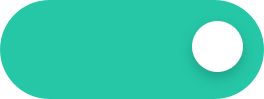
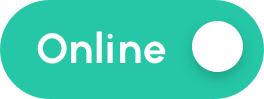
ui before api integration

Changed region(s): [[0.1212, 0.303, 0.6364, 0.6667]]

diff --git a/src/Screens/RoyoOrder/RoyoProducts/RoyoProducts.js b/src/Screens/RoyoOrder/RoyoProducts/RoyoProducts.js
@@ -1,5 +1,5 @@
 import React, {useState, useCallback} from 'react';
-import {View, Text, StyleSheet, ScrollView, Image} from 'react-native';
+import {View, Text, StyleSheet, Image} from 'react-native';
 import {useFocusEffect} from '@react-navigation/native';
 import {SwipeListView} from 'react-native-swipe-list-view';
 import {customMarginBottom} from '../../../utils/constants/constants';
@@ -9,16 +9,16 @@ import fontFamily from '../../../styles/fontFamily';
 import {
   moderateScale,
   moderateScaleVertical,
-  textScale,
+  width,
 } from '../../../styles/responsiveSize';
 import MultiScreen from '../../../Components/MultiScreen';
 import imagePath from '../../../constants/imagePath';
 import {useSelector} from 'react-redux';
 import {TouchableOpacity} from 'react-native';
 import ButtonWithLoader from '../../../Components/ButtonWithLoader';
-import {Platform} from 'react-native';
 import navigationStrings from '../../../navigation/navigationStrings';
 import Header from '../../../Components/Header';
+import {FlatList} from 'react-native';
 
 const RoyoProducts = (props) => {
   const {navigation} = props;
@@ -33,7 +33,7 @@ const RoyoProducts = (props) => {
     });
 
   //   const {product} = useSelector((state) => state.product);
-  const product = [1, 2, 3, 4];
+  const product = [1, 2, 3, 4, 5, 6, 7, 8, 9];
   const renderItem = (data, rowMap) => {
     const {item, index} = data;
     return (
@@ -122,6 +122,7 @@ const RoyoProducts = (props) => {
       statusBarColor="white"
       barStyle="dark-content">
       <Header
+        headerStyle={{marginVertical: moderateScaleVertical(16)}}
         centerTitle={`${headerText} | Foodies hub  `}
         noLeftIcon
         imageAlongwithTitle={imagePath.dropdownTriangle}
@@ -129,6 +130,7 @@ const RoyoProducts = (props) => {
       />
       <View style={styles.container}>
         <MultiScreen
+          tabTextStyle={{marginTop: moderateScaleVertical(0)}}
           screenName={['Products', 'Categories', '', '', '']}
           selectedScreen={(index) => selectedOrder(index)}
           selectedScreenIndex={activeIndex}
@@ -165,14 +167,7 @@ const RoyoProducts = (props) => {
               onPress={() =>
                 navigation.navigate(navigationStrings.ROYO_ADD_PRODUCT)
               }
-              btnStyle={{
-                position: 'absolute',
-                padding: moderateScale(10),
-                bottom: moderateScaleVertical(20),
-                right: moderateScale(10),
-                borderRadius: moderateScale(100),
-                paddingHorizontal: moderateScale(15),
-              }}
+              btnStyle={styles.productBtn}
               btnText="+  products"
             />
           </View>
@@ -180,51 +175,54 @@ const RoyoProducts = (props) => {
         {activeIndex == 1 ? (
           <View
             style={{
-              flexDirection: 'row',
-              flexWrap: 'wrap',
-              justifyContent: 'space-between',
               flex: 1,
             }}>
-            {[1, 2, 3, 4, 5, 6, 7].map((item, index) => {
-              return (
+            <FlatList
+              data={[1, 2, 3, 4, 5, 6, 7]}
+              keyExtractor={(item, index) => index}
+              bounces={false}
+              showsVerticalScrollIndicator={false}
+              numColumns={width > 600 ? 5 : 3}
+              renderItem={({item, index}) => (
                 <View
                   key={index}
-                  style={{marginBottom: moderateScaleVertical(16)}}>
-                  <TouchableOpacity
-                    style={{
-                      alignSelf: 'center',
-                      backgroundColor: '#D8D8D8',
-                      paddingHorizontal: 10,
-                      paddingVertical: moderateScaleVertical(16),
-                      marginBottom: moderateScaleVertical(8),
-                      borderRadius: moderateScaleVertical(6),
-                    }}>
+                  style={{
+                    marginBottom: moderateScaleVertical(16),
+                    marginLeft:
+                      width > 600
+                        ? index % 5
+                          ? moderateScale(10)
+                          : 0
+                        : index % 3
+                        ? moderateScale(10)
+                        : 0,
+                  }}>
+                  <TouchableOpacity style={styles.categoryItem}>
                     <Image
                       style={{
-                        width: moderateScale(75),
-                        height: moderateScaleVertical(65),
+                        resizeMode: 'center',
+                        width:
+                          width > 600
+                            ? (width - moderateScale(173)) / 5
+                            : (width - moderateScale(112)) / 3,
+                        height:
+                          width > 600
+                            ? (width - moderateScale(203)) / 5
+                            : (width - moderateScale(152)) / 3,
                       }}
-                      source={{
-                        uri: 'https://cdn.britannica.com/q:60/08/177308-050-94D9D6BE/Food-Pizza-Basil-Tomato.jpg',
-                      }}
+                      source={imagePath.testingImageRoyo}
                     />
                   </TouchableOpacity>
                   <Text style={{textAlign: 'center'}}>pizza</Text>
                 </View>
-              );
-            })}
+              )}
+            />
+
             <ButtonWithLoader
               onPress={() =>
                 navigation.navigate(navigationStrings.ROYO_ADD_PRODUCT)
               }
-              btnStyle={{
-                position: 'absolute',
-                padding: moderateScale(10),
-                bottom: moderateScaleVertical(20),
-                right: moderateScale(10),
-                borderRadius: moderateScale(100),
-                paddingHorizontal: moderateScale(15),
-              }}
+              btnStyle={styles.categoryBtn}
               btnText="+  category"
             />
           </View>
@@ -272,5 +270,29 @@ const styles = StyleSheet.create({
     borderRadius: moderateScaleVertical(8),
     justifyContent: 'center',
     marginLeft: moderateScale(8),
+  },
+  categoryItem: {
+    alignSelf: 'center',
+    backgroundColor: '#F8F8F8',
+    paddingHorizontal: moderateScale(10),
+    paddingVertical: moderateScaleVertical(16),
+    marginBottom: moderateScaleVertical(8),
+    borderRadius: moderateScaleVertical(6),
+  },
+  productBtn: {
+    position: 'absolute',
+    padding: moderateScale(10),
+    bottom: moderateScaleVertical(20),
+    right: moderateScale(10),
+    borderRadius: moderateScale(100),
+    paddingHorizontal: moderateScale(15),
+  },
+  categoryBtn: {
+    position: 'absolute',
+    padding: moderateScale(10),
+    bottom: moderateScaleVertical(20),
+    right: moderateScale(10),
+    borderRadius: moderateScale(100),
+    paddingHorizontal: moderateScale(15),
   },
 });

diff --git a/src/Screens/RoyoOrder/RoyoHome/RoyoHome.js b/src/Screens/RoyoOrder/RoyoHome/RoyoHome.js
@@ -159,42 +159,17 @@ const RoyoHome = (props) => {
       statusBarColor={colors.white}
       barStyle="dark-content">
       <Header
-        // headerStyle={{marginTop:moderateScaleVertical(8)}}
+        headerStyle={{marginVertical: moderateScaleVertical(16)}}
         onPressLeft={() => {}}
         leftIcon={imagePath.logoRoyo}
-        customRight={() => (
-          <TouchableOpacity onPress={toggleStatus}>
-            <Image
-              source={status ? imagePath.onlineRoyo : imagePath.offlineRoyo}
-            />
-            <Text
-              style={{
-                ...commonStyle.boldFont14,
-                color: colors.white,
-                position: 'absolute',
-                left: status ? moderateScale(11) : null,
-                right: status ? null : moderateScale(10),
-                top: moderateScaleVertical(6.5),
-              }}>
-              {status ? 'online' : 'offline'}
-            </Text>
-          </TouchableOpacity>
-        )}
+        rightIcon={status?imagePath.onlineRoyo:imagePath.offlineRoyo}
+        onPressRight={toggleStatus}
       />
       <ScrollView
         contentContainerStyle={{flexGrow: 1}}
         style={styles.container}
         showsVerticalScrollIndicator={false}
         bounces={false}>
-        {/* <View style={styles.header}>
-          <Image source={imagePath.logoRoyo} />
-          <View style={styles.toggle}>
-            <Text style={{...commonStyle.boldFont14, color: colors.white}}>
-              online
-            </Text>
-            <View style={styles.indicator} />
-          </View>
-        </View> */}
         {data1 ? (
           <View style={styles.center}>
             <Image source={imagePath.emptyPackage} style={{}} />
@@ -378,7 +353,7 @@ const styles = StyleSheet.create({
   },
   container: {
     paddingHorizontal: moderateScale(16),
-    paddingVertical: moderateScaleVertical(24),
+    paddingBottom: moderateScaleVertical(24),
     marginBottom: customMarginBottom(18, 86),
     backgroundColor: 'transparent',
     backfaceVisibility: 'hidden',

diff --git a/src/Screens/RoyoOrder/RoyoOrderDetail/RoyoOrderDetail.js b/src/Screens/RoyoOrder/RoyoOrderDetail/RoyoOrderDetail.js
@@ -24,7 +24,11 @@ const RoyoOrderDetail = (props) => {
       bgColor="white"
       statusBarColor="white"
       barStyle="dark-content">
-      <Header leftIcon={imagePath.backRoyo} centerTitle="Order details" />
+      <Header
+        headerStyle={{marginVertical: moderateScaleVertical(16)}}
+        leftIcon={imagePath.backRoyo}
+        centerTitle="Order details"
+      />
       <ScrollView style={styles.container} bounces={false}>
         <Text style={styles.jobStatus}>Job Status</Text>
         <View style={styles.preparingBox}>
@@ -87,18 +91,18 @@ const RoyoOrderDetail = (props) => {
           <View style={styles.flexRow}>
             <Text style={styles.font14Semibold}>Delivery address</Text>
             <View style={{flexDirection: 'row'}}>
-              <Image style={styles.shareImage} source={imagePath.callRoyo} />
+              <Image source={imagePath.callRoyo} />
               <Image
                 style={{
                   marginLeft: moderateScaleVertical(10),
-                  ...styles.shareImage,
+                  // ...styles.shareImage,
                 }}
                 source={imagePath.whatsAppRoyo}
               />
               <Image
                 style={{
                   marginLeft: moderateScaleVertical(10),
-                  ...styles.shareImage,
+                  // ...styles.shareImage,
                 }}
                 source={imagePath.shareRoyo}
               />
@@ -196,7 +200,7 @@ const styles = StyleSheet.create({
   },
   container: {
     flex: 1,
-    marginTop: moderateScaleVertical(24),
+    // marginTop: moderateScaleVertical(24),
     paddingBottom: moderateScaleVertical(10),
     marginBottom: moderateScaleVertical(16),
   },

diff --git a/src/Screens/RoyoOrder/RoyoAccounts/RoyoAccounts.js b/src/Screens/RoyoOrder/RoyoAccounts/RoyoAccounts.js
@@ -72,6 +72,7 @@ const RoyoAccounts = (props) => {
       statusBarColor="white"
       barStyle="dark-content">
       <Header
+      headerStyle={{marginVertical: moderateScaleVertical(16)}}
         centerTitle="Accounts | Foodies hub  "
         noLeftIcon
         imageAlongwithTitle={imagePath.dropdownTriangle}
@@ -129,7 +130,6 @@ export default RoyoAccounts;
 
 const styles = StyleSheet.create({
   container: {
-    marginTop: moderateScaleVertical(8),
     marginBottom: moderateScaleVertical(24),
     marginHorizontal: moderateScale(16),
   },
@@ -138,7 +138,7 @@ const styles = StyleSheet.create({
     padding: moderateScale(12),
     backgroundColor: '#24C3A323',
     borderRadius: moderateScale(5),
-    marginTop: moderateScaleVertical(16),
+    // marginTop: moderateScaleVertical(16),
   },
   cameraBox: {
     marginRight: moderateScale(8),

diff --git a/src/constants/imagePath.js b/src/constants/imagePath.js
@@ -374,6 +374,8 @@ export default {
   onlineRoyo: require('../assets/images/royoTab/ic_online.png'),
   offlineRoyo: require('../assets/images/royoTab/ic_offline.png'),
 
+
+
   accountActiveRoyo: require('../assets/images/royoTab/ic_account2.png'),
   accountInactiveRoyo: require('../assets/images/royoTab/ic_account1.png'),
   homeActiveRoyo: require('../assets/images/royoTab/ic_home2.png'),
@@ -387,4 +389,7 @@ export default {
   edit1Royo: require('../assets/images/royoTab/Shape.png'),
   paymentSettinRoyo: require('../assets/images/royoTab/ic_paysettings.png'),
   cameraRoyo: require('../assets/images/royoTab/ic_camera2.png'),
+
+
+  testingImageRoyo: require('../assets/images/royoTab/Food-Pizza-Basil-Tomato-removebg-preview.png'),
 };

diff --git a/src/Screens/RoyoOrder/RoyoOrder/RoyoOrder.js b/src/Screens/RoyoOrder/RoyoOrder/RoyoOrder.js
@@ -54,6 +54,7 @@ const RoyoOrder = (props) => {
       statusBarColor="white"
       barStyle="dark-content">
       <Header
+        headerStyle={{marginVertical: moderateScaleVertical(16)}}
         centerTitle="Orders | Foodies hub  "
         noLeftIcon
         imageAlongwithTitle={imagePath.dropdownTriangle}
@@ -61,6 +62,7 @@ const RoyoOrder = (props) => {
       />
       <View style={styles.container}>
         <MultiScreen
+          tabTextStyle={{marginTop: moderateScaleVertical(0)}}
           screenName={['new', 'confirmed', 'cancelled', 'completed']}
           selectedScreen={(index) => selectedOrder(index)}
           selectedScreenIndex={activeIndex}

diff --git a/src/Screens/RoyoOrder/RoyoAddProduct/RoyoAddProduct.js b/src/Screens/RoyoOrder/RoyoAddProduct/RoyoAddProduct.js
@@ -199,6 +199,7 @@ const RoyoAddProduct = (props) => {
       statusBarColor="white"
       barStyle="dark-content">
       <Header
+      headerStyle={{marginVertical: moderateScaleVertical(16)}}
         leftIcon={imagePath.backRoyo}
         centerTitle="Add product | Foodies hub   "
         showImageAlongwithTitle
@@ -353,7 +354,7 @@ const styles = StyleSheet.create({
     fontFamily: fontFamily.regular,
     color: colors.black,
     marginBottom: moderateScaleVertical(10),
-    marginTop: moderateScaleVertical(34),
+    marginTop: moderateScaleVertical(14),
   },
   camera: {
     maxWidth: moderateScale(69),

diff --git a/src/Screens/RoyoOrder/RoyoPaymentSetting/RoyoPaymentSetting.js b/src/Screens/RoyoOrder/RoyoPaymentSetting/RoyoPaymentSetting.js
@@ -68,6 +68,7 @@ const PaymentSettings = (props) => {
       statusBarColor="white"
       barStyle="dark-content">
       <Header
+      headerStyle={{marginVertical: moderateScaleVertical(16)}}
         leftIcon={imagePath.backRoyo}
         centerTitle="Payment settings | Foodies hub   "
         showImageAlongwithTitle
@@ -202,7 +203,7 @@ const styles = StyleSheet.create({
   cashBox: {
     flexDirection: 'row',
     paddingBottom: moderateScaleVertical(16),
-    paddingTop: moderateScaleVertical(30),
+    paddingTop: moderateScaleVertical(10),
     alignItems: 'baseline',
   },
   cashOnDeliver: {

diff --git a/src/Screens/RoyoOrder/RoyoTransactions/RoyoTransactions.js b/src/Screens/RoyoOrder/RoyoTransactions/RoyoTransactions.js
@@ -65,6 +65,7 @@ const RoyoTransactions = (props) => {
       barStyle="dark-content">
       
       <Header
+      headerStyle={{marginVertical: moderateScaleVertical(16)}}
         leftIcon={imagePath.backRoyo}
         centerTitle="Transactions | Foodies hub   "
         showImageAlongwithTitle
@@ -158,7 +159,7 @@ const styles = StyleSheet.create({
     alignItems: 'center',
   },
   headerBox: {
-    marginTop: moderateScaleVertical(24),
+    marginTop: moderateScaleVertical(10),
     alignItems: 'center',
     paddingVertical: moderateScaleVertical(30),
     backgroundColor: '#25C7A7',
